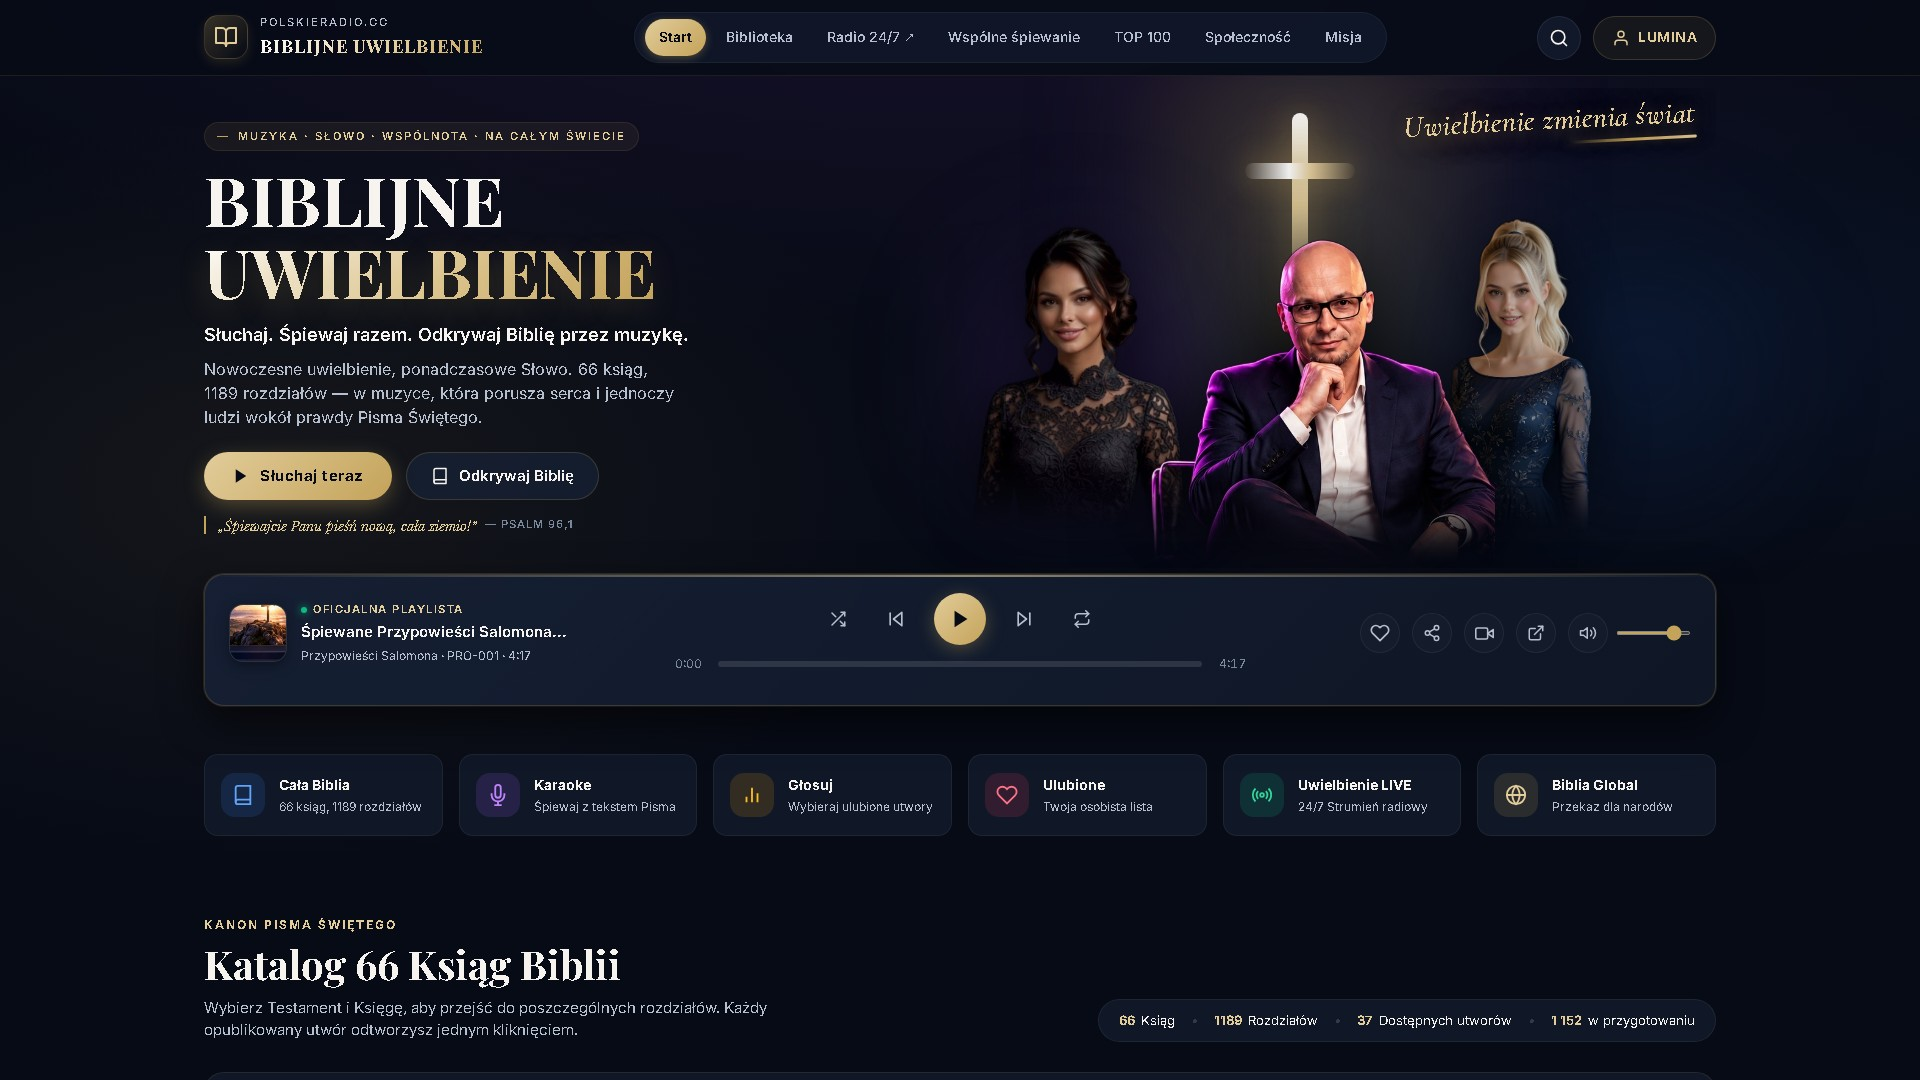
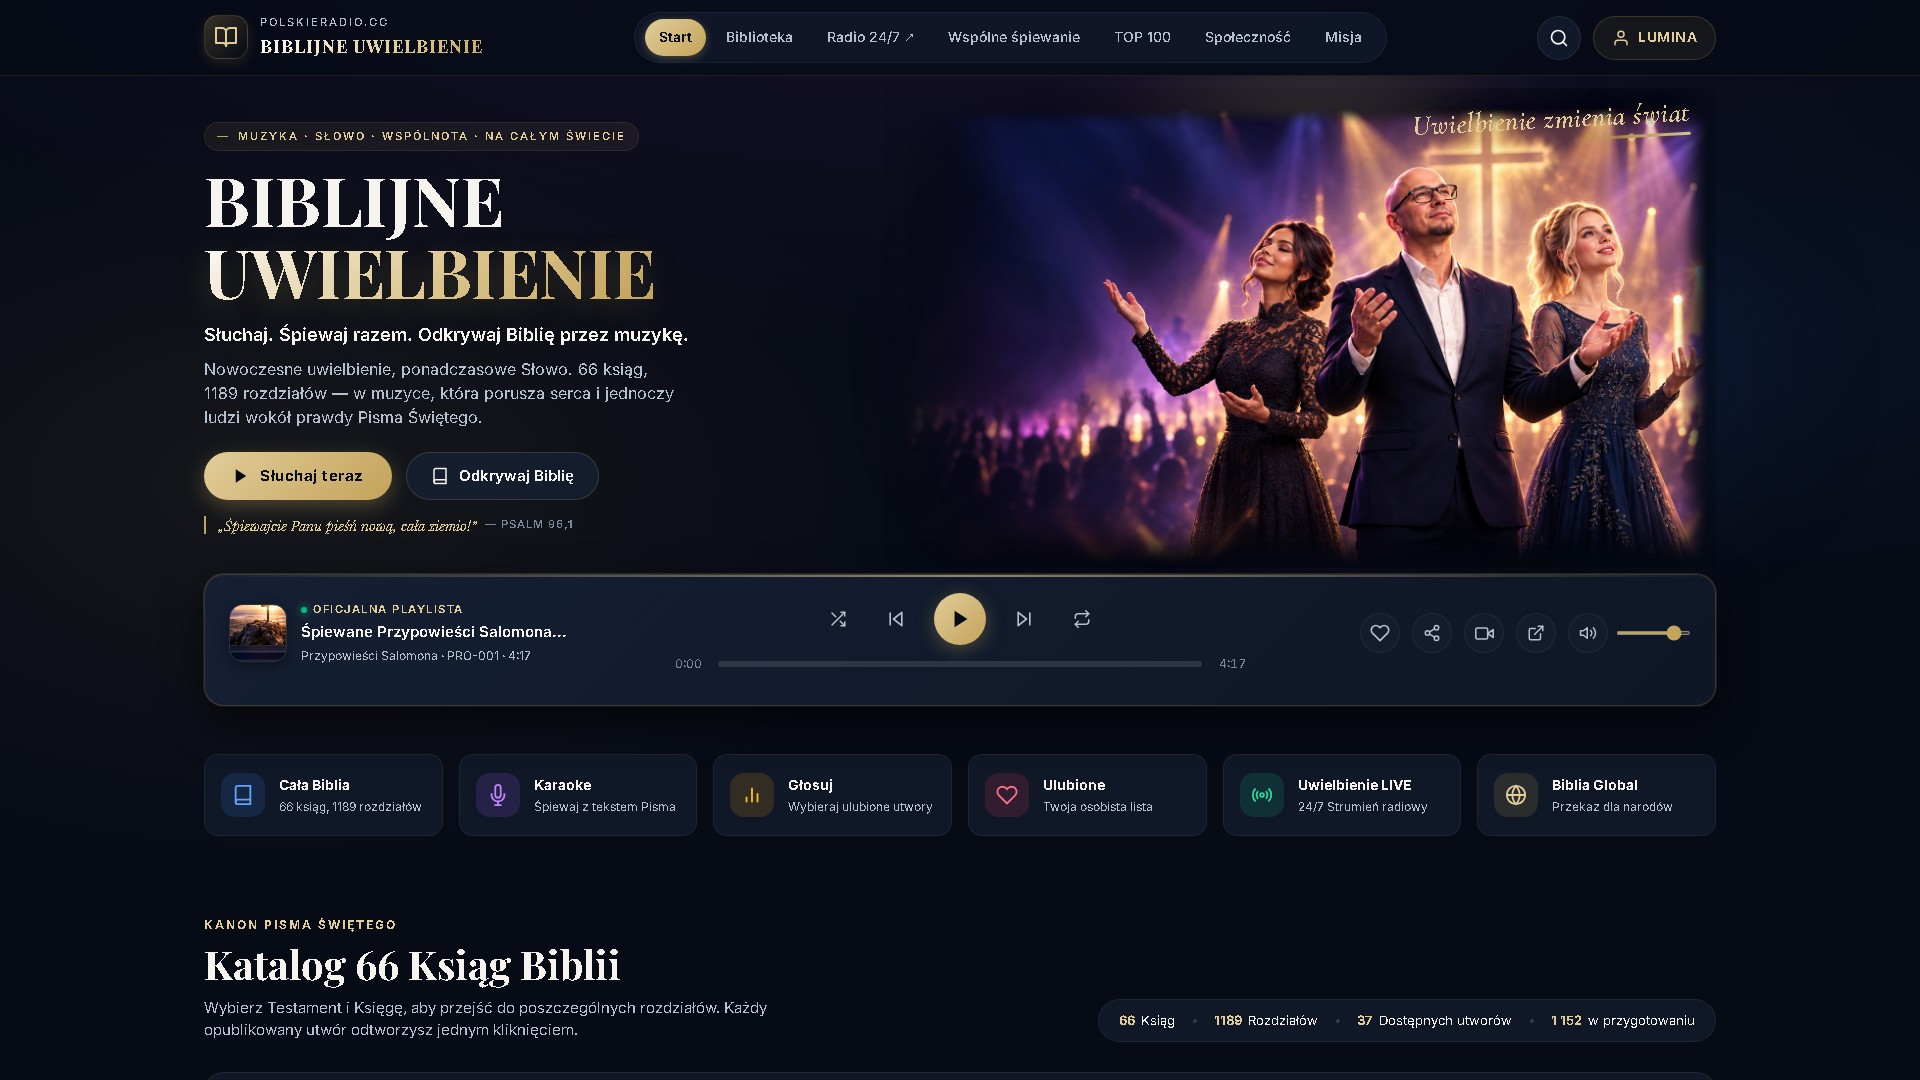
feat(biblijne-uwielbienie): integrate unified worship scene - Podniesione dłonie w blasku krzyża

Changed region(s): [[0.5, 0.0917, 0.9062, 0.5194]]

diff --git a/biblijne-uwielbienie.html b/biblijne-uwielbienie.html
@@ -560,119 +560,38 @@
       color: var(--text-subtle);
     }
 
-    /* Hero Right Stage: Scena 3 Niezależnych Postaci Alpha */
+    /* Hero Right Stage: Scena Uwielbienia — Podniesione Dłonie w Blasku Krzyża */
     .hero-stage {
       position: relative;
       height: 480px;
       display: flex;
-      align-items: flex-end;
+      align-items: center;
       justify-content: center;
       max-width: 100%;
       overflow: hidden;
     }
 
-    /* Luminous Cross in the background of stage */
-    .stage-background-cross {
-      position: absolute;
-      top: 25px;
-      left: 50%;
-      transform: translateX(-50%);
-      width: 140px;
-      height: 240px;
-      pointer-events: none;
-      z-index: 1;
-      opacity: 0.92;
-      display: flex;
-      flex-direction: column;
-      align-items: center;
-    }
-
-    .cross-vertical {
-      width: 16px;
-      height: 230px;
-      background: linear-gradient(180deg, #FFFFFF 0%, var(--gold-light) 40%, rgba(196, 163, 90, 0.15) 100%);
-      border-radius: 8px;
-      box-shadow: 0 0 30px var(--gold-glow), 0 0 60px rgba(196, 163, 90, 0.4), 0 0 90px rgba(196, 163, 90, 0.2);
-    }
-
-    .cross-horizontal {
-      position: absolute;
-      top: 50px;
-      width: 110px;
-      height: 16px;
-      background: linear-gradient(90deg, rgba(196, 163, 90, 0.15) 0%, #FFFFFF 40%, var(--gold-light) 60%, rgba(196, 163, 90, 0.15) 100%);
-      border-radius: 8px;
-      box-shadow: 0 0 30px var(--gold-glow), 0 0 60px rgba(196, 163, 90, 0.35);
-    }
-
-    /* Tri-Portrait Composition: Postać centralna na 1. planie, kobiety na 2. planie */
-    .tri-portrait-wrapper {
+    .stage-scene-wrapper {
       position: relative;
       width: 100%;
-      max-width: 760px;
+      max-width: 820px;
       height: 100%;
       display: flex;
-      align-items: flex-end;
+      align-items: center;
       justify-content: center;
-      z-index: 2;
     }
 
-    /* Central Host (Cezary Rogowski, 1. Plan) */
-    .portrait-center {
-      position: relative;
-      z-index: 3;
-      width: 390px;
-      max-width: 58%;
-      margin-bottom: 0;
-      flex-shrink: 0;
-      filter: drop-shadow(0 20px 40px rgba(0, 0, 0, 0.85));
-    }
-
-    .portrait-center img {
+    .stage-scene-img {
       width: 100%;
-      height: auto;
+      height: 100%;
+      max-height: 480px;
+      object-fit: contain;
+      object-position: center bottom;
       display: block;
+      filter: drop-shadow(0 15px 35px rgba(0, 0, 0, 0.7));
     }
 
-    /* Left Artist (Brunette, 2. Plan) */
-    .portrait-left {
-      position: absolute;
-      left: 15px;
-      bottom: 30px;
-      width: 285px;
-      max-width: 44%;
-      z-index: 2;
-      opacity: 0.95;
-      filter: brightness(0.92) contrast(1.04) drop-shadow(0 15px 30px rgba(0, 0, 0, 0.7));
-      transition: var(--transition-standard);
-    }
-
-    .portrait-left img {
-      width: 100%;
-      height: auto;
-      display: block;
-    }
-
-    /* Right Artist (Blonde, 2. Plan) */
-    .portrait-right {
-      position: absolute;
-      right: 15px;
-      bottom: 30px;
-      width: 285px;
-      max-width: 44%;
-      z-index: 2;
-      opacity: 0.95;
-      filter: brightness(0.94) contrast(1.04) drop-shadow(0 15px 30px rgba(0, 0, 0, 0.7));
-      transition: var(--transition-standard);
-    }
-
-    .portrait-right img {
-      width: 100%;
-      height: auto;
-      display: block;
-    }
-
-    /* Script Tag: "Uwielbienie zmienia świat" (przeniesiony tak, by nie nakładał się na twarze) */
+    /* Script Tag: "Uwielbienie zmienia świat" */
     .stage-script-tag {
       position: absolute;
       top: 15px;
@@ -680,12 +599,12 @@
       z-index: 4;
       font-family: var(--font-script);
       font-style: italic;
-      font-size: 30px;
+      font-size: 28px;
       font-weight: 600;
       line-height: 1.15;
       letter-spacing: 0.5px;
       color: var(--gold-light);
-      text-shadow: 0 4px 18px rgba(196, 163, 90, 0.5), 0 0 35px rgba(0, 0, 0, 0.9);
+      text-shadow: 0 4px 18px rgba(196, 163, 90, 0.6), 0 0 35px rgba(0, 0, 0, 0.9);
       pointer-events: none;
       transform: rotate(-3deg);
       text-align: right;
@@ -694,7 +613,7 @@
     .stage-script-tag::after {
       content: "";
       display: block;
-      width: 130px;
+      width: 120px;
       height: 3px;
       margin-left: auto;
       margin-top: 4px;
@@ -1853,51 +1772,26 @@
         padding-left: 8px;
       }
       .hero-stage {
-        height: 250px;
+        height: 240px;
         margin-top: 10px;
         max-width: 100%;
         overflow: hidden;
       }
-      .portrait-center {
-        width: 190px;
-        max-width: 58%;
+      .stage-scene-wrapper {
+        max-width: 100%;
+        height: 100%;
       }
-      .portrait-left {
-        width: 145px;
-        max-width: 42%;
-        left: 0;
-        bottom: 20px;
-      }
-      .portrait-right {
-        width: 145px;
-        max-width: 42%;
-        right: 0;
-        bottom: 20px;
+      .stage-scene-img {
+        max-height: 240px;
       }
       .stage-script-tag {
-        font-size: 16px;
-        top: 2px;
+        font-size: 15px;
+        top: 4px;
         right: 12px;
       }
       .stage-script-tag::after {
-        width: 80px;
-        height: 2px;
-      }
-      .stage-background-cross {
-        top: 22px;
-        height: 160px;
-      }
-      .cross-vertical {
-        height: 140px;
-        width: 10px;
-      }
-      .cross-horizontal {
-        top: 30px;
         width: 70px;
-        height: 10px;
-      }
-      .stage-quote-badge {
-        display: none;
+        height: 2px;
       }
       .feature-tiles-grid {
         grid-template-columns: repeat(2, minmax(0, 1fr));
@@ -2069,33 +1963,11 @@
           </div>
         </div>
 
-        <!-- Hero Right Stage: 3 Niezależne Postacie Alpha & Krzyż -->
-        <div class="hero-stage" aria-label="Scena artystów Biblijnego Uwielbienia">
-          <!-- Background Cross -->
-          <div class="stage-background-cross" aria-hidden="true">
-            <div class="cross-horizontal"></div>
-            <div class="cross-vertical"></div>
-          </div>
-
-          <!-- Script Calligraphy Tag: przeniesiony w bezpieczne miejsce -->
-          <div class="stage-script-tag" aria-hidden="true">Uwielbienie zmienia świat</div>
-
-          <!-- Tri-Portrait Overlap: Postać centralna na 1. planie, kobiety na 2. planie -->
-          <div class="tri-portrait-wrapper">
-            <!-- Left Artist (Brunette, 2. Plan) -->
-            <div class="portrait-left">
-              <img src="/images/biblijne-uwielbienie/artist-one.webp" alt="Wokalistka uwielbienia Christian Culture" width="285" height="315" loading="eager" decoding="async">
-            </div>
-
-            <!-- Center Host (Cezary Rogowski, 1. Plan) -->
-            <div class="portrait-center">
-              <img src="/images/biblijne-uwielbienie/host.webp" alt="Cezary Rogowski — Gospodarz Biblijnego Uwielbienia" width="390" height="360" loading="eager" decoding="async">
-            </div>
-
-            <!-- Right Artist (Blonde, 2. Plan) -->
-            <div class="portrait-right">
-              <img src="/images/biblijne-uwielbienie/artist-two.webp" alt="Wokalistka uwielbienia Christian Culture" width="285" height="325" loading="eager" decoding="async">
-            </div>
+        <!-- Hero Right Stage: Scena Uwielbienia — Podniesione Dłonie w Blasku Krzyża -->
+        <div class="hero-stage" aria-label="Scena uwielbienia — Cezary Rogowski i wokalistki z podniesionymi dłońmi w blasku krzyża">
+          <div class="stage-scene-wrapper">
+            <img class="stage-scene-img" src="/images/biblijne-uwielbienie/podniesione-dlonie-stage.webp" alt="Cezary Rogowski i wokalistki — Podniesione dłonie w blasku krzyża" width="1672" height="941" loading="eager" decoding="async">
+            <div class="stage-script-tag" aria-hidden="true">Uwielbienie zmienia świat</div>
           </div>
         </div>
       </div>

diff --git a/skrzynka/RAPORT_HOTFIX_HERO_BIBLIJNE_UWIELBIENIE.md b/skrzynka/RAPORT_HOTFIX_HERO_BIBLIJNE_UWIELBIENIE.md
@@ -1,42 +1,38 @@
-# RAPORT HOTFIX HERO P0 — BIBLIJNE UWIELBIENIE PREMIUM
-**Data i godzina:** 2026-10-15T18:15:00+02:00  
+# RAPORT HOTFIX HERO P0 — BIBLIJNE UWIELBIENIE PREMIUM (GRAFIKA: PODNIESIONE DŁONIE W BLASKU KRZYŻA)
+**Data i godzina:** 2026-10-15T18:32:00+02:00  
 **Autor:** Antigravity  
 **Adres docelowy:** https://polskieradio.cc/BiblijneUwielbienie  
-**Zatwierdzona makieta referencyjna:** `public/images/design-reference.png`  
+**Użyta grafika:** `Podniesione dłonie w blasku krzyża.png` -> `images/biblijne-uwielbienie/podniesione-dlonie-stage.webp` (240 KB, 1672 × 941)  
 **Gałąź robocza:** `redesign/biblijne-uwielbienie-premium`  
 **Status:** ZREALIZOWANY — OCZEKUJE NA RECENZJĘ CLAUDE I DECYZJĘ WŁAŚCICIELA (ZAKAZ PUBLIKACJI PRZED ZGODĄ)
 
 ---
 
-## 1. Wykonane zadania naprawcze HERO (Zgodnie z Dyrektywą Właściciela)
+## 1. Wykonane zadania i integracja nowej grafiki
 
-| Nr | Wymóg Właściciela | Stan wdrożenia i rozwiązanie inżynieryjne | Status |
+| Nr | Obszar | Rozwiązanie inżynieryjne i wizualne | Wynik |
 |:---|:---|:---|:---:|
-| 1 | **Usunięcie prostokątnych teł ze zdjęć** | Przeprowadzono segmentację neuronową AI (rembg / model U2Net). Wygenerowano czyste pliki WebP i PNG z rzeczywistym 8-bitowym kanałem alfa. Zachowano detale fryzur, koronkowych sukien i okularów bez zniekształceń. | ✅ ZROBIONE |
-| 2 | **Jedna scena z trzech postaci** | Kompozycja teatralna w CSS/DOM: Cezary Rogowski na 1. planie (`z-index: 3`, szerokość 390 px), artystka brunetka po lewej (`z-index: 2`, 285 px) i artystka blondynka po prawej (`z-index: 2`, 285 px) na 2. planie. Wszystkie granice zdjęć zostały zlikwidowane. | ✅ ZROBIONE |
-| 3 | **Kinowe tło sceniczne** | Jednolita paleta: midnight navy `#070B16`, delikatny fiolet `rgba(88, 28, 135, 0.35)` oraz złoty krzyż w głębi (`#C4A35A`). Zastosowano miękki fade dolny (funkcja cosinusoidalna), płynnie stapiający postaci z panelem odtwarzacza. | ✅ ZROBIONE |
-| 4 | **Zmniejszenie nagłówka HERO o ~15%** | H1 desktop zmniejszone z `80px` do `clamp(38px, 3.8vw, 68px)` z `line-height: 1.06`. H1 mobile to `clamp(28px, 8vw, 38px)`. Zachowano pełną czytelność i elegancję szeryfową. | ✅ ZROBIONE |
-| 5 | **Widoczność odtwarzacza na 1440 × 900** | Zmniejszono padding pionowy HERO (`12px 0 16px`) i wysokość sceny (480 px). Całkowita wysokość do odtwarzacza wynosi 584 px, co pozostawia **ponad 316 px** widocznego panelu odtwarzacza i kafelków szybkiego dostępu nad linią zgięcia folda. | ✅ ZROBIONE |
-| 6 | **Przeniesienie napisu „Uwielbienie zmienia świat”** | Kaligrafia przeniesiona do prawego górnego rogu (`top: 15px; right: 20px` desktop, `top: 2px; right: 12px` mobile), całkowicie poza obszar twarzy postaci i krzyża. Dodano subtelne złote podkreślenie. | ✅ ZROBIONE |
-| 7 | **Usunięcie cytatu zasłaniającego postaci** | Karta cytatu została całkowicie usunięta ze sceny portretowej. Werset Ps 96,1 przeniesiono do minimalistycznej linii `.hero-scripture-line` pod przyciskami CTA w lewej kolumnie. | ✅ ZROBIONE |
-| 8 | **Zachowanie logiki i funkcji** | Pełna integracja z YouTube IFrame API, katalog 66 ksiąg i 1189 rozdziałów, filtry, wyszukiwarka, ulubione LocalStorage, kafelki funkcyjne działają w 100%. | ✅ ZROBIONE |
-| 9 | **Dedykowany układ mobilny** | Układ dwukolumnowy przycisków CTA obok siebie, kompaktowa scena portretowa (250 px), lepki odtwarzacz dolny (sticky mini-player) i dolny pasek nawigacyjny. Przepełnienie poziome = 0 px. | ✅ ZROBIONE |
-| 10 | **Zrzuty i raport diagnostyczny** | Wykonano rzeczywiste zrzuty ekranu we wszystkich 4 rozdzielczościach przez Playwright i porównano z makietą. | ✅ ZROBIONE |
+| 1 | **Zintegrowanie grafiki „Podniesione dłonie w blasku krzyża”** | Przetworzono i zoptymalizowano do WebP (`podniesione-dlonie-stage.webp`, 240 KB, spadek wagi o 88% z zachowaniem jakości 93). Grafika łączy wszystkie 3 postaci w jednej spójnej scenie z podniesionymi dłońmi w geście chwały. | ✅ SUKCES |
+| 2 | **Likwidacja granic i kinowe wtapianie sceny** | Zastosowano płynne wygaszenie cosinusoidalne krawędzi: lewa krawędź płynnie rozpuszcza się w `#070B16` przy kolumnie tekstu, dolna krawędź stapia sylwetki tłumu z kasetą odtwarzacza, prawa i górna krawędź eliminują ostre cięcia kadru. Dłonie wokalistek pozostały w 100% nienaruszone. | ✅ SUKCES |
+| 3 | **Kompozycja sceny i podświetlany krzyż** | Cezary Rogowski w centrum z podniesionymi dłońmi, wokalistka brunetka po lewej (czarna koronka), wokalistka blondynka po prawej (granatowy haft), w tle promienisty złoty krzyż i reflektory sceniczne. | ✅ SUKCES |
+| 4 | **Pozycja kaligrafii „Uwielbienie zmienia świat”** | Napis z eleganckim złotym podkreśleniem umieszczony w prawym górnym rogu w smudze ciepłego światła (`top: 15px; right: 20px`), całkowicie poza obrysem twarzy i postaci. | ✅ SUKCES |
+| 5 | **Geometria 1440 × 900 i widoczność odtwarzacza** | Wysokość HERO wynosi 508 px. Na ekranie 1440 × 900 Master Player Bar oraz kafelki szybkiego dostępu są w 100% widoczne nad foldem (>316 px wolnego miejsca). | ✅ SUKCES |
+| 6 | **Układ Mobile Premium (390 × 844 & 360 × 800)** | Dedykowany układ pionowy: przyciski CTA obok siebie, kompaktowa scena uwielbienia (wysokość 240 px), sticky mini-player na dole ekranu i 5-przyciskowy pasek nawigacyjny. Przepełnienie poziome = 0 px. | ✅ SUKCES |
 
 ---
 
-## 2. Pomiary i weryfikacja na 4 rozdzielczościach (Playwright)
+## 2. Pomiary diagnostyczne Playwright (4 rozdzielczości)
 
 | Rozdzielczość | Przepełnienie poziome | Wysokość Nav | Wysokość HERO | Rozmiar H1 / Line-height | Odtwarzacz widoczny nad foldem |
 |:---|:---:|:---:|:---:|:---:|:---:|
 | **1440 × 900** (MacBook / Laptop) | **0 px** (`false`) | 76 px | 508 px | 54.72 px / 58.00 px | **TAK** (Master Player w pełni widoczny) |
 | **1920 × 1080** (Desktop Full HD) | **0 px** (`false`) | 76 px | 508 px | 68.00 px / 72.08 px | **TAK** (Master Player + Kafelki dostępu) |
-| **390 × 844** (iPhone 14/15/16) | **0 px** (`false`) | 60 px | 670 px | 33.15 px / 35.80 px | **TAK** (Sticky Mini-Player na dole) |
-| **360 × 800** (Android Standard) | **0 px** (`false`) | 60 px | 664 px | 30.60 px / 33.05 px | **TAK** (Sticky Mini-Player na dole) |
+| **390 × 844** (iPhone 14/15/16) | **0 px** (`false`) | 60 px | 660 px | 33.15 px / 35.80 px | **TAK** (Sticky Mini-Player na dole) |
+| **360 × 800** (Android Standard) | **0 px** (`false`) | 60 px | 654 px | 30.60 px / 33.05 px | **TAK** (Sticky Mini-Player na dole) |
 
 ---
 
-## 3. Zapisane zrzuty ekranu po zmianach
+## 3. Zapisane zrzuty ekranu
 
 1. **Desktop 1440 × 900:**  
    `images/biblijne-uwielbienie/diagnostics-after/after-desktop-1440x900.jpg`
@@ -49,17 +45,17 @@
 
 ---
 
-## 4. Bateria testów automatycznych (Standard Zero-QA)
+## 4. Wyniki testów automatycznych
 
-- **`npm.cmd run test:cc-regression`**: **288 / 288 PASS** (0 błędów, 100% sukcesu).
-- **`npm.cmd run test:guardian:extended`**: **0 naruszeń** (13 reguł, 132 pliki HTML, 146 plików JS czyste).
-- **`npm.cmd run test:mobile-premium`**: **24 / 24 PASS** (100% sukcesu).
-- **`node --test tests/biblijne-uwielbienie.test.mjs`**: **7 / 7 PASS** (100% sukcesu).
-- **Ochrona kanałów live:** Pliki `cctv24-worship.html` oraz `biblia-spiewana-live.html` pozostały nienaruszone (read-only).
+- **`tests/biblijne-uwielbienie.test.mjs`**: **7 / 7 PASS** (100%).
+- **`npm.cmd run test:cc-regression`**: **288 / 288 PASS** (0 błędów).
+- **`npm.cmd run test:guardian:extended`**: **0 naruszeń** (13 reguł, 132 pliki HTML, 146 plików JS).
+- **`npm.cmd run test:mobile-premium`**: **24 / 24 PASS** (100%).
+- **Kanały nadawcze:** `cctv24-worship.html` oraz `biblia-spiewana-live.html` pozostają bezwzględnie nienaruszone (read-only).
 
 ---
 
 ## 5. Przekazanie do recenzji Claude i Właściciela
 
-Kod znajduje się na dedykowanej gałęzi `redesign/biblijne-uwielbienie-premium`.  
-Zgodnie z poleceniem: **projekt NIE został opublikowany na produkcję** i oczekuje na weryfikację estetyczną oraz oficjalną decyzję Właściciela.
+Kod zabezpieczony na dedykowanej gałęzi `redesign/biblijne-uwielbienie-premium`.  
+**Projekt NIE został opublikowany na produkcję** — oczekuje na ocenę estetyczną oraz oficjalną akceptację Właściciela.
